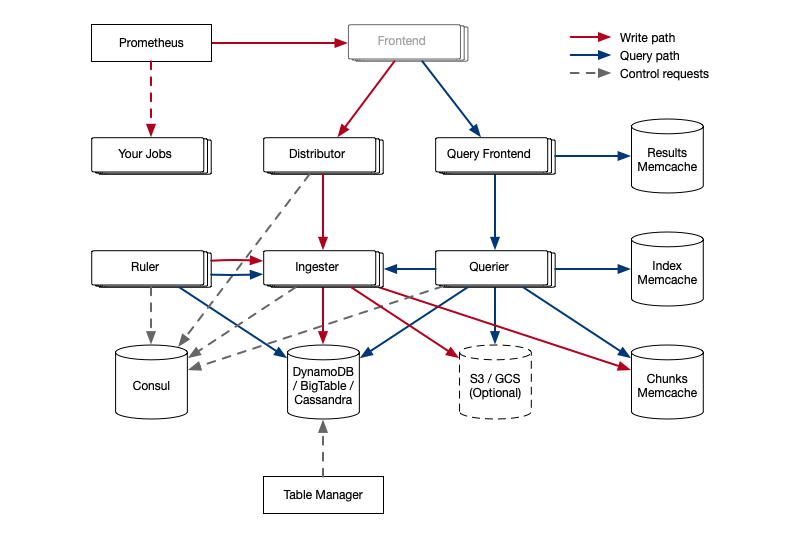
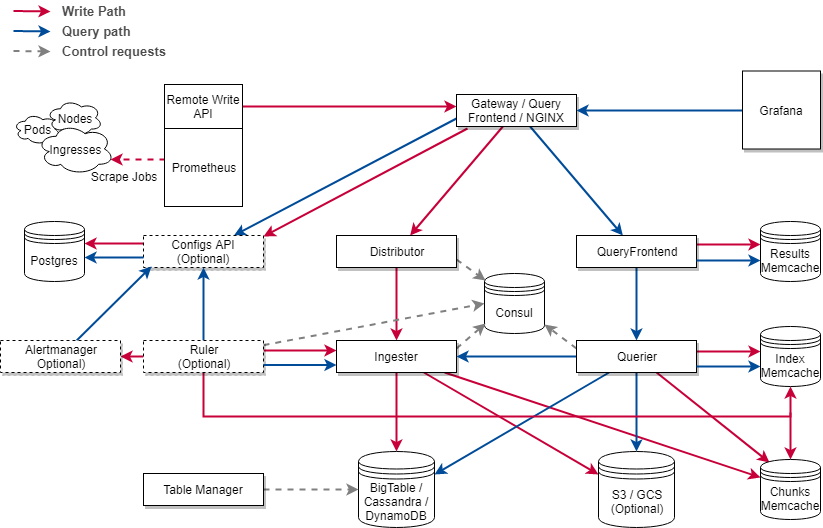
New architecture drawing with alertmanager and ruler

diff --git a/docs/originals/readme.md b/docs/originals/readme.md
@@ -1,0 +1,3 @@
+# Originals
+
+You can edit the original drawings using [https://www.draw.io/](https://www.draw.io/)
